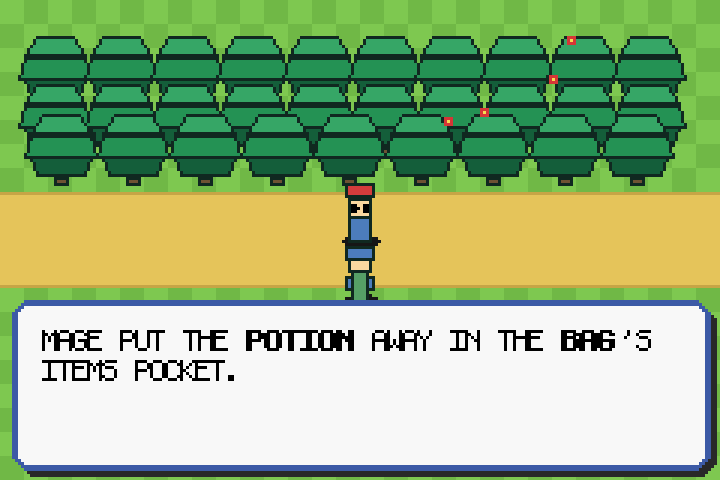
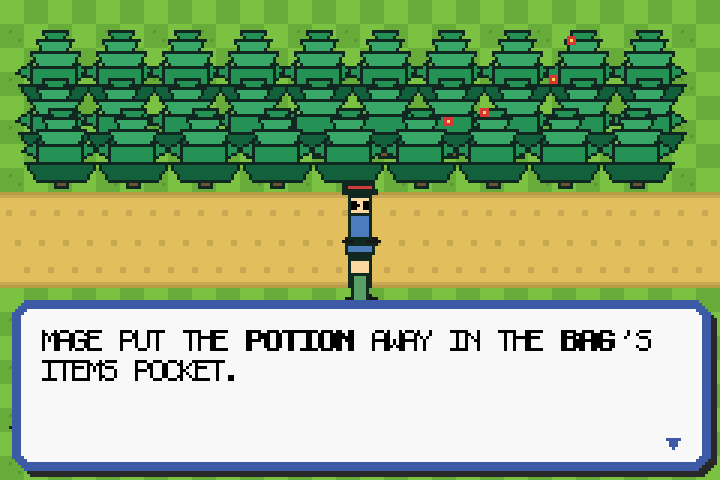
Refactor: Enhance GBA-style graphics and JS rendering
Update palette colors and drawing logic for grass, paths, and trees to better match GBA aesthetics. Improve player and NPC sprites with more detail and outlines. Add a dialogue box advance arrow. Adjust JavaScript rendering for grass and trees to align with Python changes.

diff --git a/pokemon_scene.js b/pokemon_scene.js
@@ -44,8 +44,8 @@ const COLORS = {
     SHADOW: 'rgba(0, 0, 0, 0.3)'
 };
 
-// Clear canvas with light blue background
-ctx.fillStyle = '#87CEEB';
+// Clear canvas (we'll fully paint grass)
+ctx.fillStyle = '#6BB03A';
 ctx.fillRect(0, 0, canvas.width, canvas.height);
 
 // Draw grass tiles with checker pattern
@@ -53,25 +53,19 @@ function drawGrassTile(x, y) {
     // Base grass
     ctx.fillStyle = COLORS.GRASS_LIGHT;
     ctx.fillRect(x, y, 16, 16);
-    
-    // Checker pattern
+    // Checker pattern blocks
     ctx.fillStyle = COLORS.GRASS_CHECKER;
-    for (let dy = 0; dy < 16; dy += 4) {
-        for (let dx = 0; dx < 16; dx += 4) {
-            if ((dx + dy) % 8 === 0) {
-                ctx.fillRect(x + dx, y + dy, 2, 2);
+    for (let ty = 0; ty < 16; ty += 8) {
+        for (let tx = 0; tx < 16; tx += 8) {
+            if (((x + tx) / 8 + (y + ty) / 8) % 2 === 1) {
+                ctx.fillRect(x + tx, y + ty, 8, 8);
             }
         }
     }
-    
-    // Dark grass accents
+    // Tiny accents
     ctx.fillStyle = COLORS.GRASS_DARK;
-    ctx.fillRect(x + 2, y + 3, 1, 1);
-    ctx.fillRect(x + 6, y + 7, 1, 1);
-    ctx.fillRect(x + 10, y + 5, 1, 1);
-    ctx.fillRect(x + 14, y + 11, 1, 1);
-    ctx.fillRect(x + 4, y + 13, 1, 1);
-    ctx.fillRect(x + 12, y + 1, 1, 1);
+    ctx.fillRect(x + 3, y + 2, 1, 1);
+    ctx.fillRect(x + 6, y + 5, 1, 1);
 }
 
 // Draw dirt path tile
@@ -79,63 +73,37 @@ function drawPathTile(x, y) {
     // Base path
     ctx.fillStyle = COLORS.PATH_LIGHT;
     ctx.fillRect(x, y, 16, 16);
-    
-    // Path texture
+    // Edge accents top/bottom
     ctx.fillStyle = COLORS.PATH_DARK;
-    ctx.fillRect(x + 1, y + 2, 2, 1);
-    ctx.fillRect(x + 5, y + 4, 3, 1);
-    ctx.fillRect(x + 10, y + 6, 2, 1);
-    ctx.fillRect(x + 3, y + 8, 2, 1);
-    ctx.fillRect(x + 8, y + 10, 3, 1);
-    ctx.fillRect(x + 12, y + 12, 2, 1);
-    ctx.fillRect(x + 2, y + 14, 2, 1);
-    
-    // Path shadows
-    ctx.fillStyle = COLORS.PATH_SHADOW;
-    ctx.fillRect(x + 4, y + 3, 1, 1);
-    ctx.fillRect(x + 7, y + 7, 1, 1);
-    ctx.fillRect(x + 11, y + 11, 1, 1);
-    ctx.fillRect(x + 6, y + 13, 1, 1);
+    ctx.fillRect(x, y, 16, 1);
+    ctx.fillRect(x, y + 1, 16, 1);
+    ctx.fillRect(x, y + 15, 16, 1);
+    ctx.fillRect(x, y + 14, 16, 1);
+    // Speckles
+    ctx.fillRect(x + 2, y + 6, 1, 1);
+    ctx.fillRect(x + 6, y + 8, 1, 1);
+    ctx.fillRect(x + 10, y + 10, 1, 1);
 }
 
 // Draw evergreen tree
 function drawTree(x, y) {
-    // Tree outline (drawn first, then filled over)
+    // Layered canopy blocks with outline feel
+    // Bottom layer (dark)
     ctx.fillStyle = COLORS.TREE_OUTLINE;
-    // Trunk outline
-    ctx.fillRect(x + 6, y + 20, 6, 8);
-    // Tree body outline
-    ctx.fillRect(x + 1, y + 8, 16, 14);
-    ctx.fillRect(x + 3, y + 4, 12, 6);
-    ctx.fillRect(x + 5, y + 2, 8, 4);
-    ctx.fillRect(x + 6, y, 6, 4);
-    
-    // Tree trunk
-    ctx.fillStyle = COLORS.TREE_TRUNK;
-    ctx.fillRect(x + 7, y + 21, 4, 6);
-    
-    // Trunk highlight
-    ctx.fillStyle = COLORS.TREE_TRUNK_DARK;
-    ctx.fillRect(x + 9, y + 22, 1, 4);
-    
-    // Tree foliage layers (from bottom to top)
-    ctx.fillStyle = COLORS.TREE_LEAVES;
-    // Bottom layer
-    ctx.fillRect(x + 2, y + 9, 14, 12);
-    // Middle layer
-    ctx.fillRect(x + 4, y + 5, 10, 6);
-    // Top layer
-    ctx.fillRect(x + 6, y + 1, 6, 6);
-    
-    // Dark foliage details
+    ctx.fillRect(x + 1, y + 20, 16, 8);
+    ctx.fillRect(x + 3, y + 14, 12, 6);
+    ctx.fillRect(x + 5, y + 9, 8, 5);
+    ctx.fillRect(x + 7, y + 5, 6, 4);
+    // Foliage
     ctx.fillStyle = COLORS.TREE_LEAVES_DARK;
-    ctx.fillRect(x + 3, y + 18, 2, 2);
-    ctx.fillRect(x + 13, y + 16, 2, 2);
-    ctx.fillRect(x + 6, y + 14, 2, 2);
-    ctx.fillRect(x + 10, y + 12, 2, 2);
-    ctx.fillRect(x + 5, y + 8, 2, 2);
-    ctx.fillRect(x + 11, y + 6, 2, 2);
-    ctx.fillRect(x + 7, y + 3, 2, 2);
+    ctx.fillRect(x + 2, y + 20, 14, 7);
+    ctx.fillRect(x + 4, y + 14, 10, 5);
+    ctx.fillRect(x + 6, y + 9, 8, 4);
+    ctx.fillStyle = COLORS.TREE_LEAVES;
+    ctx.fillRect(x + 6, y + 5, 6, 3);
+    // Trunk
+    ctx.fillStyle = COLORS.TREE_TRUNK;
+    ctx.fillRect(x + 7, y + 26, 4, 2);
 }
 
 // Draw small red flower
@@ -154,7 +122,7 @@ function drawFlower(x, y) {
 
 // Draw character shadow
 function drawShadow(x, y, width, height) {
-    ctx.fillStyle = COLORS.SHADOW;
+    ctx.fillStyle = 'rgba(0,0,0,0.4)';
     ctx.fillRect(x, y, width, height);
 }
 

diff --git a/gba_scene.py b/gba_scene.py
@@ -10,13 +10,15 @@ WIDTH, HEIGHT = 240, 160  # GBA native resolution
 
 # --- Palette (saturated but soft, GBA-esque) ---
 PALETTE = {
-    "grass_light": (126, 200, 80),      # bright grass green
-    "grass_dark": (112, 184, 70),       # slight checker alternate
-    "path": (229, 196, 90),             # yellow dirt path
-    "path_edge": (198, 165, 70),        # edge accent for path
+    "grass_light": (123, 193, 66),      # bright grass green (GBA-esque)
+    "grass_dark": (103, 171, 56),       # checker alt
+    "grass_accent": (90, 150, 52),      # tiny tufts
+    "path": (226, 191, 92),             # yellow dirt path
+    "path_edge": (184, 156, 70),        # edge accent for path
+    "path_speck": (200, 168, 82),       # dirt speckle
     "tree_mid": (36, 146, 84),          # evergreen mid
-    "tree_light": (54, 166, 102),       # evergreen light block
-    "tree_dark": (20, 94, 58),          # evergreen dark block
+    "tree_light": (56, 168, 104),       # evergreen light block
+    "tree_dark": (18, 96, 60),          # evergreen dark block
     "outline": (16, 40, 32),            # dark outline (near-black green)
     "trunk": (110, 82, 50),             # small trunk hint
     "flower_red": (214, 54, 54),        # red flowers
@@ -298,36 +300,53 @@ def draw_text(draw: ImageDraw.ImageDraw, text: str, x: int, y: int, max_width: i
 
 def draw_grass_and_path(base: Image.Image, path_y: int, path_h: int) -> None:
     draw = ImageDraw.Draw(base)
-    # Grass checker pattern (8x8 tiles)
+    # Grass checker pattern (8x8 tiles) with accents
     for ty in range(0, HEIGHT, 8):
         for tx in range(0, WIDTH, 8):
             use_dark = ((tx // 8) + (ty // 8)) % 2 == 1
             color = PALETTE["grass_dark"] if use_dark else PALETTE["grass_light"]
             draw.rectangle((tx, ty, tx + 7, ty + 7), fill=color)
+            # tiny accents in select tiles for texture
+            if ((tx // 8) % 2 == 0) and ((ty // 8) % 2 == 1):
+                draw.point((tx + 3, ty + 2), fill=PALETTE["grass_accent"]) 
+                draw.point((tx + 6, ty + 5), fill=PALETTE["grass_accent"]) 
 
     # Dirt path horizontally
     y0, y1 = path_y, path_y + path_h - 1
     draw.rectangle((0, y0, WIDTH - 1, y1), fill=PALETTE["path"])
-    # Path edges
-    draw.line((0, y0, WIDTH - 1, y0), fill=PALETTE["path_edge"])
-    draw.line((0, y1, WIDTH - 1, y1), fill=PALETTE["path_edge"])
+    # Path edges (double lined for GBA vibe)
+    draw.line((0, y0, WIDTH - 1, y0), fill=PALETTE["path_edge"])  
+    draw.line((0, y0 + 1, WIDTH - 1, y0 + 1), fill=PALETTE["path_speck"]) 
+    draw.line((0, y1, WIDTH - 1, y1), fill=PALETTE["path_edge"])  
+    draw.line((0, y1 - 1, WIDTH - 1, y1 - 1), fill=PALETTE["path_speck"]) 
+    # Path speckles
+    for x in range(2, WIDTH - 2, 8):
+        draw.rectangle((x, y0 + 6, x + 1, y0 + 7), fill=PALETTE["path_speck"]) 
+        draw.rectangle((x + 3, y0 + path_h // 2, x + 4, y0 + path_h // 2 + 1), fill=PALETTE["path_speck"]) 
+        draw.rectangle((x + 6, y1 - 6, x + 7, y1 - 5), fill=PALETTE["path_speck"]) 
 
 
 def draw_tree(img: Image.Image, x: int, y: int) -> None:
-    """Draw a 16-bit-esque evergreen tree with distinct dark outline. Size ~28x28."""
+    """Draw a more authentic evergreen with layered canopy and dark outline. ~28x30."""
     d = ImageDraw.Draw(img)
-    # Leaf clusters as polygons (no gradients, only solid blocks with outline)
-    clusters = [
-        ((x + 4, y + 10), (x + 24, y + 10), (x + 20, y + 4), (x + 8, y + 4)),
-        ((x + 2, y + 18), (x + 26, y + 18), (x + 24, y + 11), (x + 4, y + 11)),
-        ((x + 6, y + 24), (x + 22, y + 24), (x + 24, y + 18), (x + 4, y + 18)),
+    # Canopy layers (bottom to top) using stepped trapezoids with outline
+    layers = [
+        (PALETTE["tree_dark"],  (x + 2,  y + 20,  x + 26, y + 20,  x + 22, y + 26,  x + 6,  y + 26)),
+        (PALETTE["tree_mid"],   (x + 4,  y + 14,  x + 24, y + 14,  x + 21, y + 20,  x + 7,  y + 20)),
+        (PALETTE["tree_light"], (x + 6,  y + 9,   x + 22, y + 9,   x + 20, y + 14,  x + 8,  y + 14)),
+        (PALETTE["tree_light"], (x + 8,  y + 5,   x + 20, y + 5,   x + 18, y + 9,   x + 10, y + 9)),
+        (PALETTE["tree_mid"],   (x + 10, y + 2,   x + 18, y + 2,   x + 17, y + 5,   x + 11, y + 5)),
     ]
-    fills = [PALETTE["tree_light"], PALETTE["tree_mid"], PALETTE["tree_dark"]]
-    for poly, fill in zip(clusters, fills):
-        d.polygon(poly, fill=fill, outline=PALETTE["outline"])  # outlined blocks
+    for fill, coords in layers:
+        poly = [(coords[i], coords[i + 1]) for i in range(0, len(coords), 2)]
+        d.polygon(poly, fill=fill, outline=PALETTE["outline"]) 
 
-    # Tiny trunk hint (flat color)
-    d.rectangle((x + 12, y + 25, x + 16, y + 27), fill=PALETTE["trunk"], outline=PALETTE["outline"]) 
+    # Side leaf lumps for a fuller silhouette
+    d.polygon([(x + 1, y + 16), (x + 6, y + 12), (x + 6, y + 18)], fill=PALETTE["tree_mid"], outline=PALETTE["outline"]) 
+    d.polygon([(x + 26, y + 16), (x + 21, y + 12), (x + 21, y + 18)], fill=PALETTE["tree_mid"], outline=PALETTE["outline"]) 
+
+    # Trunk (subtle)
+    d.rectangle((x + 12, y + 26, x + 16, y + 28), fill=PALETTE["trunk"], outline=PALETTE["outline"]) 
 
 
 def scatter_flowers(img: Image.Image, regions: list[tuple[int, int, int, int]], seed: int = 1337, density: int = 14) -> None:
@@ -360,28 +379,30 @@ def draw_shadow(img: Image.Image, x: int, y: int, w: int, h: int) -> None:
 
 
 def draw_player_back(img: Image.Image, cx: int, cy: int) -> None:
-    """Draw a simple top-down player (back view) centered at (cx, cy)."""
+    """Top-down player (back view) with cap and backpack, outlined."""
     d = ImageDraw.Draw(img)
-    # Dimensions
     w, h = 16, 24
     left, top = cx - w // 2, cy - h // 2
 
     # Shadow
     draw_shadow(img, left + 2, top + h - 6, 12, 4)
 
-    # Body (backpack green)
-    d.rectangle((left + 5, top + 10, left + 10, top + 20), fill=PALETTE["cloth_green"], outline=PALETTE["outline"]) 
-    # Head
-    d.rectangle((left + 4, top + 4, left + 11, top + 10), fill=PALETTE["skin"], outline=PALETTE["outline"]) 
-    # Cap/Hair back (blue cap)
-    d.rectangle((left + 3, top + 2, left + 12, top + 6), fill=PALETTE["cloth_blue"], outline=PALETTE["outline"]) 
-    # Arms
-    d.rectangle((left + 3, top + 12, left + 5, top + 16), fill=PALETTE["cloth_blue"], outline=PALETTE["outline"]) 
-    d.rectangle((left + 10, top + 12, left + 12, top + 16), fill=PALETTE["cloth_blue"], outline=PALETTE["outline"]) 
+    # Cap (blue) back and brim
+    d.rectangle((left + 3, top + 1, left + 12, top + 4), fill=PALETTE["cloth_blue"], outline=PALETTE["outline"]) 
+    d.rectangle((left + 4, top + 4, left + 11, top + 5), fill=PALETTE["cloth_blue"], outline=PALETTE["outline"]) 
+    # Head (back)
+    d.rectangle((left + 4, top + 6, left + 11, top + 11), fill=PALETTE["skin"], outline=PALETTE["outline"]) 
+    # Backpack (green)
+    d.rectangle((left + 5, top + 11, left + 10, top + 20), fill=PALETTE["cloth_green"], outline=PALETTE["outline"]) 
+    # Shoulder straps
+    d.rectangle((left + 4, top + 12, left + 5, top + 15), fill=PALETTE["cloth_blue"], outline=PALETTE["outline"]) 
+    d.rectangle((left + 10, top + 12, left + 11, top + 15), fill=PALETTE["cloth_blue"], outline=PALETTE["outline"]) 
+    # Legs
+    d.rectangle((left + 6, top + 20, left + 9, top + 22), fill=PALETTE["cloth_blue"], outline=PALETTE["outline"]) 
 
 
 def draw_npc_front(img: Image.Image, cx: int, cy: int) -> None:
-    """Draw a simple top-down NPC (front view) with red hat and glasses centered at (cx, cy)."""
+    """Top-down NPC (front) with red hat and glasses, outlined."""
     d = ImageDraw.Draw(img)
     w, h = 16, 24
     left, top = cx - w // 2, cy - h // 2
@@ -389,16 +410,19 @@ def draw_npc_front(img: Image.Image, cx: int, cy: int) -> None:
     # Shadow
     draw_shadow(img, left + 2, top + h - 6, 12, 4)
 
-    # Hat (red)
-    d.rectangle((left + 3, top + 1, left + 12, top + 5), fill=PALETTE["npc_hat_red"], outline=PALETTE["outline"]) 
+    # Hat crown and brim
+    d.rectangle((left + 3, top + 1, left + 12, top + 4), fill=PALETTE["npc_hat_red"], outline=PALETTE["outline"]) 
+    d.rectangle((left + 2, top + 3, left + 13, top + 4), fill=PALETTE["npc_hat_red"], outline=PALETTE["outline"]) 
     # Face
-    d.rectangle((left + 4, top + 6, left + 11, top + 12), fill=PALETTE["skin"], outline=PALETTE["outline"]) 
+    d.rectangle((left + 4, top + 5, left + 11, top + 11), fill=PALETTE["skin"], outline=PALETTE["outline"]) 
     # Glasses (two squares with a bridge)
-    d.rectangle((left + 5, top + 8, left + 6, top + 10), outline=PALETTE["black"]) 
-    d.rectangle((left + 9, top + 8, left + 10, top + 10), outline=PALETTE["black"]) 
-    d.point((left + 7, top + 9), fill=PALETTE["black"])  # bridge
+    d.rectangle((left + 5, top + 7, left + 6, top + 9), outline=PALETTE["black"]) 
+    d.rectangle((left + 9, top + 7, left + 10, top + 9), outline=PALETTE["black"]) 
+    d.point((left + 7, top + 8), fill=PALETTE["black"]) 
     # Torso (blue shirt)
-    d.rectangle((left + 4, top + 12, left + 11, top + 20), fill=PALETTE["cloth_blue"], outline=PALETTE["outline"]) 
+    d.rectangle((left + 4, top + 11, left + 11, top + 19), fill=PALETTE["cloth_blue"], outline=PALETTE["outline"]) 
+    # Legs/shoes
+    d.rectangle((left + 6, top + 19, left + 9, top + 22), fill=PALETTE["outline"], outline=PALETTE["outline"]) 
 
 
 def draw_dialogue_box(img: Image.Image, text: str) -> None:
@@ -413,7 +437,10 @@ def draw_dialogue_box(img: Image.Image, text: str) -> None:
     d.rounded_rectangle((x0 + 2, y0 + 2, x1 + 2, y1 + 2), radius=radius, fill=PALETTE["box_shadow"]) 
 
     # Box
-    d.rounded_rectangle((x0, y0, x1, y1), radius=radius, fill=PALETTE["box_white"], outline=PALETTE["box_border"], width=2)
+    d.rounded_rectangle((x0, y0, x1, y1), radius=radius, fill=PALETTE["box_white"], outline=PALETTE["box_border"], width=3)
+    # Little advance arrow at bottom-right
+    arrow_x, arrow_y = x1 - 14, y1 - 10
+    d.polygon([(arrow_x, arrow_y), (arrow_x + 4, arrow_y), (arrow_x + 2, arrow_y + 3)], fill=PALETTE["box_border"]) 
 
     # Text area
     text_x = x0 + margin_x + 2
